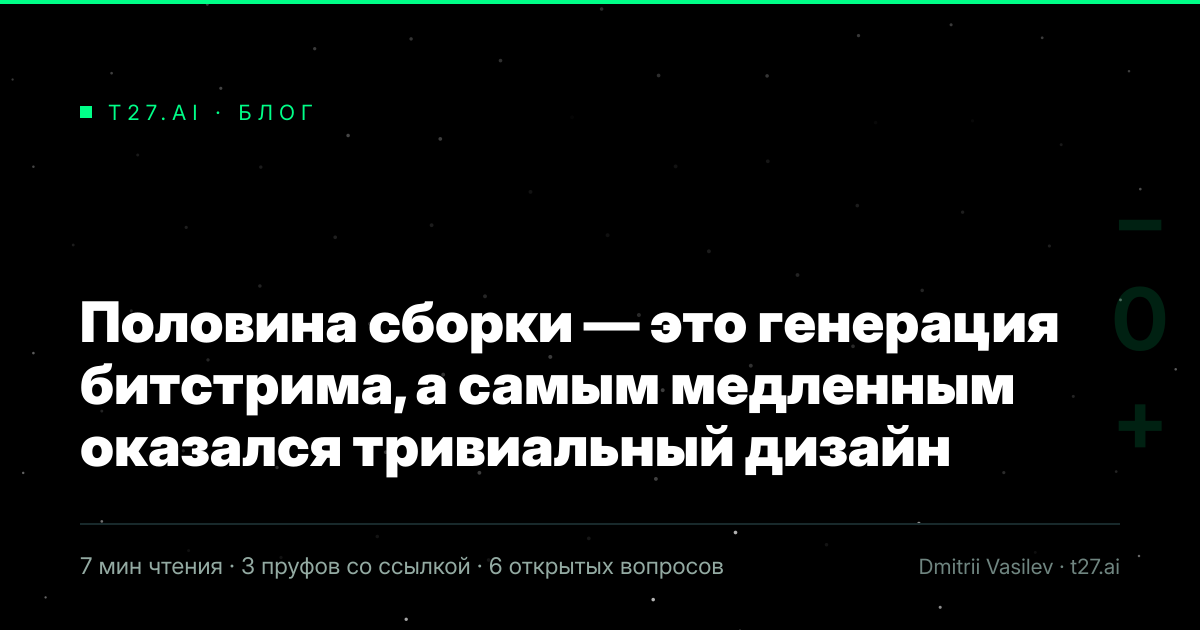
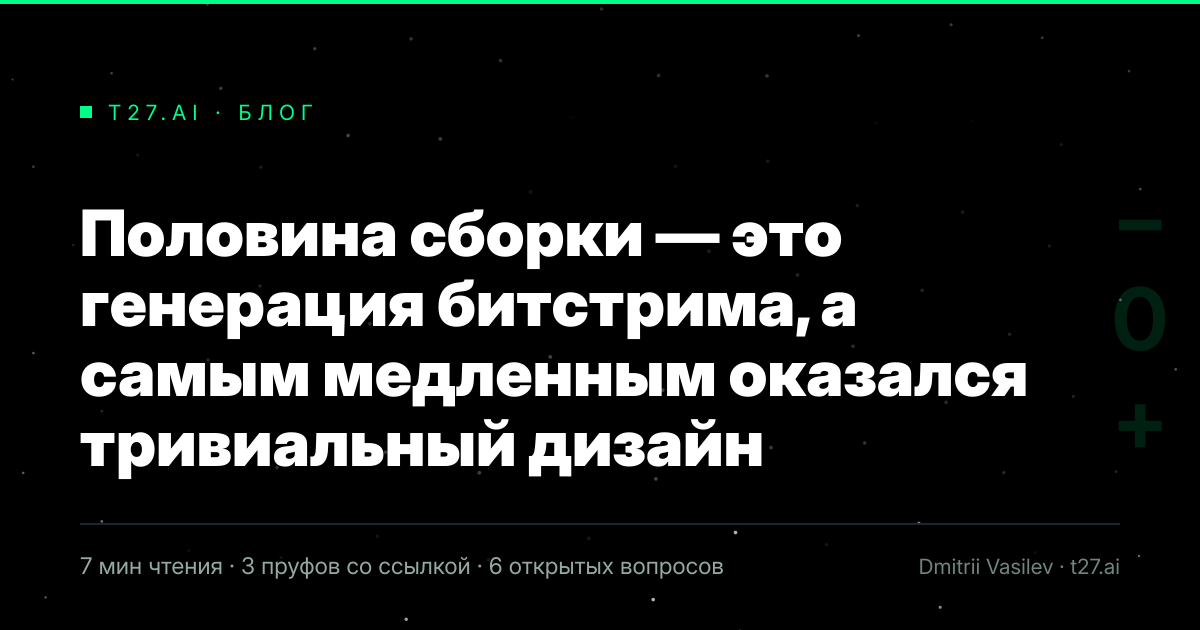
Обложки блога: заголовок целиком вместо многоточия (#15)
На мелких кеглях (64 и 56) разрешена четвёртая строка. Раньше длинный
заголовок обрезался многоточием, хотя место под ним было: при size<=64
верхняя базовая линия не задевает кикер.

Changed region(s): [[0.0617, 0.3317, 0.8942, 0.754]]

diff --git a/regen-blog.py b/regen-blog.py
@@ -142,7 +142,11 @@ def fit_title(title: str, lang: str) -> tuple:
                 cur = w
         if cur:
             lines.append(cur)
-        if len(lines) <= 3 and all(draw.textlength(l, font=f) <= limit for l in lines):
+        # На мелких кеглях есть место под четвёртую строку: заголовок целиком
+        # лучше многоточия, а верхняя базовая линия при size<=64 не задевает
+        # кикер (466 - 3*lead >= 256 против кикера на 120).
+        max_lines = 3 if size >= 74 else 4
+        if len(lines) <= max_lines and all(draw.textlength(l, font=f) <= limit for l in lines):
             return size, lines
     # Ничего не подошло: обрезать по последней строке, но не молча — многоточие
     # показывает читателю, что заголовок продолжается в статье.
